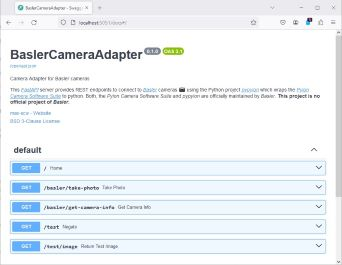
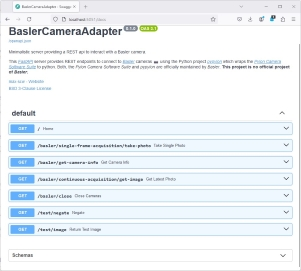
update README

diff --git a/README.md b/README.md
@@ -1,4 +1,5 @@
 # BaslerCameraAdapter
+
 Provides a Python-based web-server REST API to connect to a Basler camera (using PyPylon)
 
 It uses [*FastAPI*](https://fastapi.tiangolo.com/) to spin up a minimal web server that wraps the Python-package [pypylon](https://github.com/basler/pypylon) in a web-api.
@@ -9,6 +10,7 @@ The new sever can be packaged as a virtual (Docker) container. Find released ima
 
 
 ## Structure
+
 The repository is structured as follows:
 ``` 
 BaslerCameraAdapter
@@ -16,16 +18,19 @@ BaslerCameraAdapter
 |-- BaslerCamera.py <- python code to interact with a Basler camera
 |-- BaslerCameraAdapter.Dockerfile  <- Dockerfile for camera service
 |-- BaslerCameraThread.py  <- enables for continuous image acqusition by camera threading
+|-- DataModels.py  <- pydantic data models
 |-- docker-compose.yml  <- exemplatory docker-compose call
 |-- LICENSE
 |-- main.py  <- fastAPI server to communicate with the Basler camera
 |-- README.md
 |-- requirements.txt  <- pip requirements
-|-- utils_env_vars.py <- helper functions that provide the ability to configure the server
+|-- utils.py  <- helper functions that provide the ability to configure the server
+|-- utils_fastapi.py <- wrapper functions that provide a standardized interface for fastapi
 ```
 
 
 ## Configuration
+
 The default values to interact with a camera are configurable at startup by the following environment variables:
 
 | Environment variable    | data type | comment                                                              |
@@ -54,9 +59,10 @@ The default values to interact with a camera are configurable at startup by the 
 Note: The configuration is done once when loading the data models (the module [DataModels.py](DataModels.py)), i.e. at startup of the uvicorn server.
 
 ## Usage
+
 The default entrypoint (`/`) provides basic information but rather just assures that the server is up.
 
-![BaslerCameraAdapter_Entrypoint1.jpg](docs%2FBaslerCameraAdapter_Entrypoint1.jpg)
+![BaslerCameraAdapter_DefaultEntrypoint.jpg](docs%2FBaslerCameraAdapter_DefaultEntrypoint.jpg)
 
 See docs (endpoint `/docs`) for details. This endpoint is the charm of [*FastAPI*](https://fastapi.tiangolo.com/). 
 
@@ -70,7 +76,9 @@ The documentation is automatically created with [Swagger](https://swagger.io/) a
 
 
 ### Installation
+
 #### Python
+
 ````shell
 python ./main.py
 ````
@@ -81,23 +89,29 @@ uvicorn main:app --host=0.0.0.0 --port=5051
 
 
 #### Docker
+
 Use a virtualization engine like [docker](https://www.docker.com/) or [podman](https://podman.io/):
+
 ````shell
 docker build --tag=camera-adapter -f BaslerCameraAdapter.Dockerfile .
 ````
 or the corresponding compose plugins on the example file ([docker-compose.yml](docker-compose.yml)):
+
 ````shell
 docker compose up -d
 ````
 See example file for configuration options via environment variables.
 
 ## Acknowledgments / Disclaimer
+
 This project is no official project of [*Basler*](https://www.baslerweb.com).
 It relies on the official [*pypylon*](https://pypi.org/project/pypylon/) package which is available under the [BSD 3-Clause License](https://github.com/basler/pypylon/blob/master/LICENSE).
 
 
 ## Author
+
  - max-scw
 
 ## Status
+
 active
